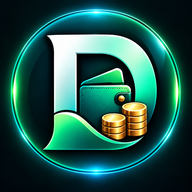
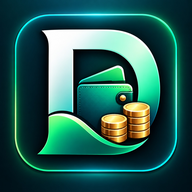
Add files via upload

diff --git a/index.html b/index.html
@@ -2,16 +2,8 @@
 <html lang="en">
 <head>
 <meta charset="UTF-8">
-<meta name="viewport" content="width=device-width, initial-scale=1.0, maximum-scale=1.0, user-scalable=no, viewport-fit=cover">
+<meta name="viewport" content="width=device-width, initial-scale=1.0, maximum-scale=1.0, user-scalable=no">
 <title>DMoney</title>
-<link rel="manifest" href="manifest.json">
-<meta name="theme-color" content="#170D10">
-<meta name="mobile-web-app-capable" content="yes">
-<meta name="apple-mobile-web-app-capable" content="yes">
-<meta name="apple-mobile-web-app-status-bar-style" content="black-translucent">
-<meta name="apple-mobile-web-app-title" content="DMoney">
-<link rel="apple-touch-icon" href="icon-180.png">
-<link rel="icon" type="image/png" sizes="192x192" href="icon-192.png">
 <style>
   :root {
     --bg1: #2A1319; --bg2: #170D10; --bg3: #120A0C;
@@ -385,6 +377,7 @@
 .notification-list{display:grid;gap:8px}.notification-item{width:100%;display:flex;align-items:flex-start;gap:10px;padding:12px;border:1px solid var(--card-border);border-radius:13px;background:var(--card);color:var(--text);text-align:left;cursor:pointer;position:relative}.notification-item.unread{border-color:rgba(217,164,65,.55);background:var(--card-hover)}.notification-item.read{opacity:.72}.notification-icon{width:34px;height:34px;display:flex;align-items:center;justify-content:center;border-radius:10px;background:var(--input-bg);font-size:17px;flex:0 0 34px}.notification-body{display:flex;flex-direction:column;gap:3px;min-width:0;flex:1}.notification-body b{font-size:13px}.notification-body span{font-size:12px;line-height:1.45;color:var(--muted)}.notification-body small{font-size:10px;color:var(--faint)}.notification-dot{width:8px;height:8px;border-radius:50%;background:var(--rose);flex:0 0 8px;margin-top:5px}.notification-panel{position:fixed;inset:0;z-index:96;background:var(--bg3);overflow:auto;padding:14px 16px calc(40px + env(safe-area-inset-bottom));margin:0}
 .menu-item .notification-badge{margin-left:7px;margin-right:2px;box-shadow:none}.notification-menu-meta{font-size:10px;color:var(--muted);white-space:nowrap;margin-left:auto}
 </style>
+  <link rel="manifest" href="./manifest.json">
 </head>
 <body>
 <div id="app"></div>
@@ -602,8 +595,8 @@
     showTxForm: false,
     editingTxId: null,
     txView: 'list',
-    period: 'all',
-    periodValue: todayStr(),
+    period: 'month',
+    periodValue: monthOf(todayStr()),
     acctFilter: 'all', acctFilters: ['all'],
     showMenu: false, showSearch: false, searchQuery: '', utility: '', settingsSection: '', showAnalysisPicker:false, showAnalysisAccounts:false, analysisRange: 'yearly', analysisYear: yearOf(todayStr()), analysisMonth: monthOf(todayStr()), analysisDate: todayStr(), analysisAccountIds: ['all'], analysisType: 'expense', analysisView: 'expenseOverview', analysisCategoryDetail: null, monthlyRange: 'yearly', carryYear: yearOf(todayStr()), monthlySort: 'asc', monthlyHideEmpty: false,
     privacyHideAll: false, privacyHidden: {},
@@ -643,7 +636,7 @@
     state.editingGoalId = null; state.showAddGoal = false;
     state.editingCatId = null; state.editingTransactionCategoryId = null; state.showAddCat = false;
     state.showTxForm = false; state.editingTxId = null; state.txType = 'expense'; state.txView = 'list';
-    state.period = 'all'; state.periodValue = todayStr(); state.acctFilter = 'all'; state.acctFilters = ['all']; state.analysisRange='yearly'; state.analysisYear=yearOf(todayStr()); state.analysisMonth=monthOf(todayStr()); state.analysisDate=todayStr(); state.analysisAccountIds=['all']; state.analysisType='expense'; state.analysisView='expenseOverview'; state.analysisCategoryDetail=null; state.monthlyRange='yearly'; state.carryYear=yearOf(todayStr()); state.monthlySort='asc'; state.monthlyHideEmpty=false; state.showMenu=false; state.showSearch=false; state.showAccountPicker=false; state.searchQuery=''; state.utility=''; state.calcExpr=''; state.txDraftCategory='';
+    state.period = 'month'; state.periodValue = monthOf(todayStr()); state.acctFilter = 'all'; state.acctFilters = ['all']; state.analysisRange='yearly'; state.analysisYear=yearOf(todayStr()); state.analysisMonth=monthOf(todayStr()); state.analysisDate=todayStr(); state.analysisAccountIds=['all']; state.analysisType='expense'; state.analysisView='expenseOverview'; state.analysisCategoryDetail=null; state.monthlyRange='yearly'; state.carryYear=yearOf(todayStr()); state.monthlySort='asc'; state.monthlyHideEmpty=false; state.showMenu=false; state.showSearch=false; state.showAccountPicker=false; state.searchQuery=''; state.utility=''; state.calcExpr=''; state.txDraftCategory='';
     state.showAcctForm = false; state.editingAcctId = null;
     state.commitmentFormVisible = false; state.editingCommitmentId = null;
     state.showAddProfile = false; state.editingProfileId = null;
@@ -1326,7 +1319,7 @@
 
   function render() {
     var app=document.getElementById('app');
-    app.innerHTML=renderTopBanner()+renderBrandHeader()+renderProfileBar()+renderTabs()+ (state.tab==='analysis'?renderAnalysisTab():state.tab==='goals'?(state.view==='goalDetail'?renderGoalDetail():state.view==='commitmentDetail'?renderGoalsSubtabs()+renderCommitmentDetail():state.view==='commitmentsList'?renderGoalsSubtabs()+renderCommitmentsList():renderGoalsList()):state.tab==='planning'?renderPlanningTab():state.tab==='transactions'?renderTransactionsTab():state.tab==='accounts'?(state.view==='accountDetail'?renderAccountDetail(state.activeAccountId):renderAccountsTab()):renderBackupTab()) + renderMenu()+renderSearch()+renderUtility() + (!state.showTxForm&&!state.utility&&!state.showSearch?'<button class="fab" onclick="WBT.toggleTxForm(true)">+</button>':'') + (state.showTxForm?renderTxModal():'');
+    app.innerHTML=renderTopBanner()+renderBrandHeader()+renderProfileBar()+renderTabs()+ (state.tab==='analysis'?renderAnalysisTab():state.tab==='goals'?(state.view==='goalDetail'?renderGoalDetail():state.view==='commitmentDetail'?renderGoalsSubtabs()+renderCommitmentDetail():state.view==='commitmentsList'?renderGoalsSubtabs()+renderCommitmentsList():renderGoalsList()):state.tab==='planning'?renderPlanningTab():state.tab==='transactions'?renderTransactionsTab():state.tab==='accounts'?(state.view==='accountDetail'?renderAccountDetail(state.activeAccountId):renderAccountsTab()):renderBackupTab()) + renderMenu()+renderSearch()+renderUtility() + (state.tab==='transactions'&&!state.showTxForm&&!state.utility&&!state.showSearch?'<button class="fab" onclick="WBT.toggleTxForm(true)">+</button>':'') + (state.showTxForm?renderTxModal():'');
   }
   function renderTabs(){function btn(id,icon,label){return '<button class="tab-btn'+(state.tab===id?' active':'')+'" onclick="WBT.setTab('+JSON.stringify(id).replace(/"/g,"&quot;").replace(/&quot;/g,"'")+')"><span style="font-size:14px;">'+icon+'</span><span>'+label+'</span></button>';}; return '<div class="tabs">'+btn('transactions','🧾','Log')+'<button class="tab-btn'+(state.tab==='analysis'?' active':'')+'" onclick="WBT.openAnalysis()"><span style="font-size:14px;">📊</span><span>Analysis</span></button>'+btn('goals','▦','Goals')+btn('accounts','👥','Accounts')+'</div>'; }
 
@@ -1843,8 +1836,8 @@
   }
   var WBT = {
     openAnalysis:function(){state.tab='analysis';state.view='goalsList';state.activeGoalId=null;state.activeCommitmentId=null;state.goalsSubtab=(state.goalsSubtab||'financial');state.showTxForm=false;state.utility='';state.showMenu=false;state.showSearch=false;state.showAccountPicker=false;render();},
-    goHome: function () { state.tab='transactions'; state.view='log'; state.activeGoalId=null; state.activeCommitmentId=null; state.showMenu=false; state.showSearch=false; state.showAccountPicker=false; state.utility=''; state.showTxForm=false; render(); },
-    setTab: function (t) { state.tab=t; state.view='goalsList'; state.activeGoalId=null; state.activeCommitmentId=null; state.goalsSubtab=(state.goalsSubtab||'financial'); state.showTxForm=false; state.utility=''; state.showMenu=false; state.showSearch=false; state.showAccountPicker=false; render(); },
+    goHome: function () { state.tab='transactions'; state.view='log'; state.period='month'; state.periodValue=monthOf(todayStr()); state.activeGoalId=null; state.activeCommitmentId=null; state.showMenu=false; state.showSearch=false; state.showAccountPicker=false; state.utility=''; state.showTxForm=false; render(); },
+    setTab: function (t) { state.tab=t; if(t==='transactions'){state.view='log';state.period='month';state.periodValue=monthOf(todayStr());} else {state.view='goalsList';} state.activeGoalId=null; state.activeCommitmentId=null; state.goalsSubtab=(state.goalsSubtab||'financial'); state.showTxForm=false; state.utility=''; state.showMenu=false; state.showSearch=false; state.showAccountPicker=false; render(); },
     setBetaField:function(id,value){var b=state.betaSimulator||betaMonthlyDefaults();if(id==='horizon')b.horizon=Number(value)||12;else if(id==='startingBalance')b.startingBalance=Number(value)||0;else if(id==='monthlyIncome')b.monthlyIncome=Number(value)||0;else if(id==='monthlyExpenses')b.monthlyExpenses=Number(value)||0;else if(id==='monthlyCommitments')b.monthlyCommitments=Number(value)||0;else if(id==='monthlyGoals')b.monthlyGoals=Number(value)||0;b.calculated=false;state.betaSimulator=b;},
     calculateFutureMoney:function(){var b=state.betaSimulator||betaMonthlyDefaults();['startingBalance','monthlyIncome','monthlyExpenses','monthlyCommitments','monthlyGoals'].forEach(function(k){b[k]=Math.max(0,Number(b[k])||0);});b.horizon=Math.max(1,Math.min(24,Number(b.horizon)||12));b.calculated=true;state.betaSimulator=b;save();render();},
     resetFutureMoney:function(){state.betaSimulator=betaMonthlyDefaults();save();render();},
@@ -2510,84 +2503,11 @@
 </script>
 
 <script>
-(function () {
-  'use strict';
-  if (typeof window.WBT === 'undefined') return;
-  var WBT = window.WBT;
-  var navStack = [];
-  var poppingFromHistory = false;
-
-  function pushNav(entry) {
-    if (poppingFromHistory) return;
-    history.pushState({ dmoneyNav: true }, '', location.href);
-    navStack.push(entry);
-  }
-
-  function wrapToggle(name, isOpenFn) {
-    var orig = WBT[name];
-    if (typeof orig !== 'function') return;
-    WBT[name] = function (v) {
-      if (v) {
-        orig.apply(WBT, arguments);
-        pushNav({ fn: orig, arg: false, isOpen: isOpenFn });
-      } else {
-        if (navStack.length > 0 && !poppingFromHistory) {
-          history.back();
-        } else {
-          orig.apply(WBT, arguments);
-        }
-      }
-    };
-  }
-
-  function wrapPair(openName, closeName, isOpenFn) {
-    var origOpen = WBT[openName];
-    var origClose = WBT[closeName];
-    if (typeof origOpen !== 'function' || typeof origClose !== 'function') return;
-    WBT[openName] = function () {
-      var r = origOpen.apply(WBT, arguments);
-      pushNav({ fn: origClose, arg: undefined, isOpen: isOpenFn });
-      return r;
-    };
-    WBT[closeName] = function () {
-      if (navStack.length > 0 && !poppingFromHistory) {
-        history.back();
-      } else {
-        origClose.apply(WBT, arguments);
-      }
-    };
-  }
-
-  window.addEventListener('popstate', function () {
-    while (navStack.length > 0) {
-      var top = navStack.pop();
-      if (top.isOpen && !top.isOpen()) continue; // already closed some other way (e.g. Save) — skip silently
-      poppingFromHistory = true;
-      try { top.fn(top.arg); } finally { poppingFromHistory = false; }
-      return;
-    }
-    // nothing of ours was open — let the back gesture behave normally (exit/minimize)
-  });
-
-  wrapToggle('toggleTxForm', function () { return !!document.querySelector('.tx-modal'); });
-  wrapToggle('toggleMenu', function () { return !!document.querySelector('.side-menu'); });
-  wrapToggle('toggleSearch', function () { return !!document.getElementById('dmoneySearchInput'); });
-  wrapPair('openGoal', 'backToGoals', function () { return !!document.querySelector('.back-btn'); });
-  wrapPair('openUtility', 'closeUtility', function () { return !!document.querySelector('.utility-panel, .notification-panel'); });
-  wrapPair('startTransactionCategoryEdit', 'cancelTransactionCategoryEdit', function () { return !!document.getElementById('dmoneyEditOverlay'); });
-  wrapPair('startAccountTypeEdit', 'cancelAccountTypeEdit', function () { return !!document.getElementById('dmoneyEditOverlay'); });
-})();
-</script>
-
-<script>
 if ('serviceWorker' in navigator) {
   window.addEventListener('load', function () {
-    navigator.serviceWorker.register('sw.js').catch(function (err) {
-      console.log('Service worker registration failed (offline install may not work):', err);
-    });
+    navigator.serviceWorker.register('./sw.js').catch(function () {});
   });
 }
 </script>
-
 </body>
 </html>

diff --git a/sw.js b/sw.js
@@ -1,5 +1,5 @@
-// DMoney service worker — caches the app shell so it works 100% offline after first load.
-const CACHE_NAME = 'dmoney-cache-v2';
+// DMoney service worker — caches the app shell so it works offline after first load.
+const CACHE_NAME = 'dmoney-cache-v3';
 const APP_SHELL = [
   './index.html',
   './manifest.json',
